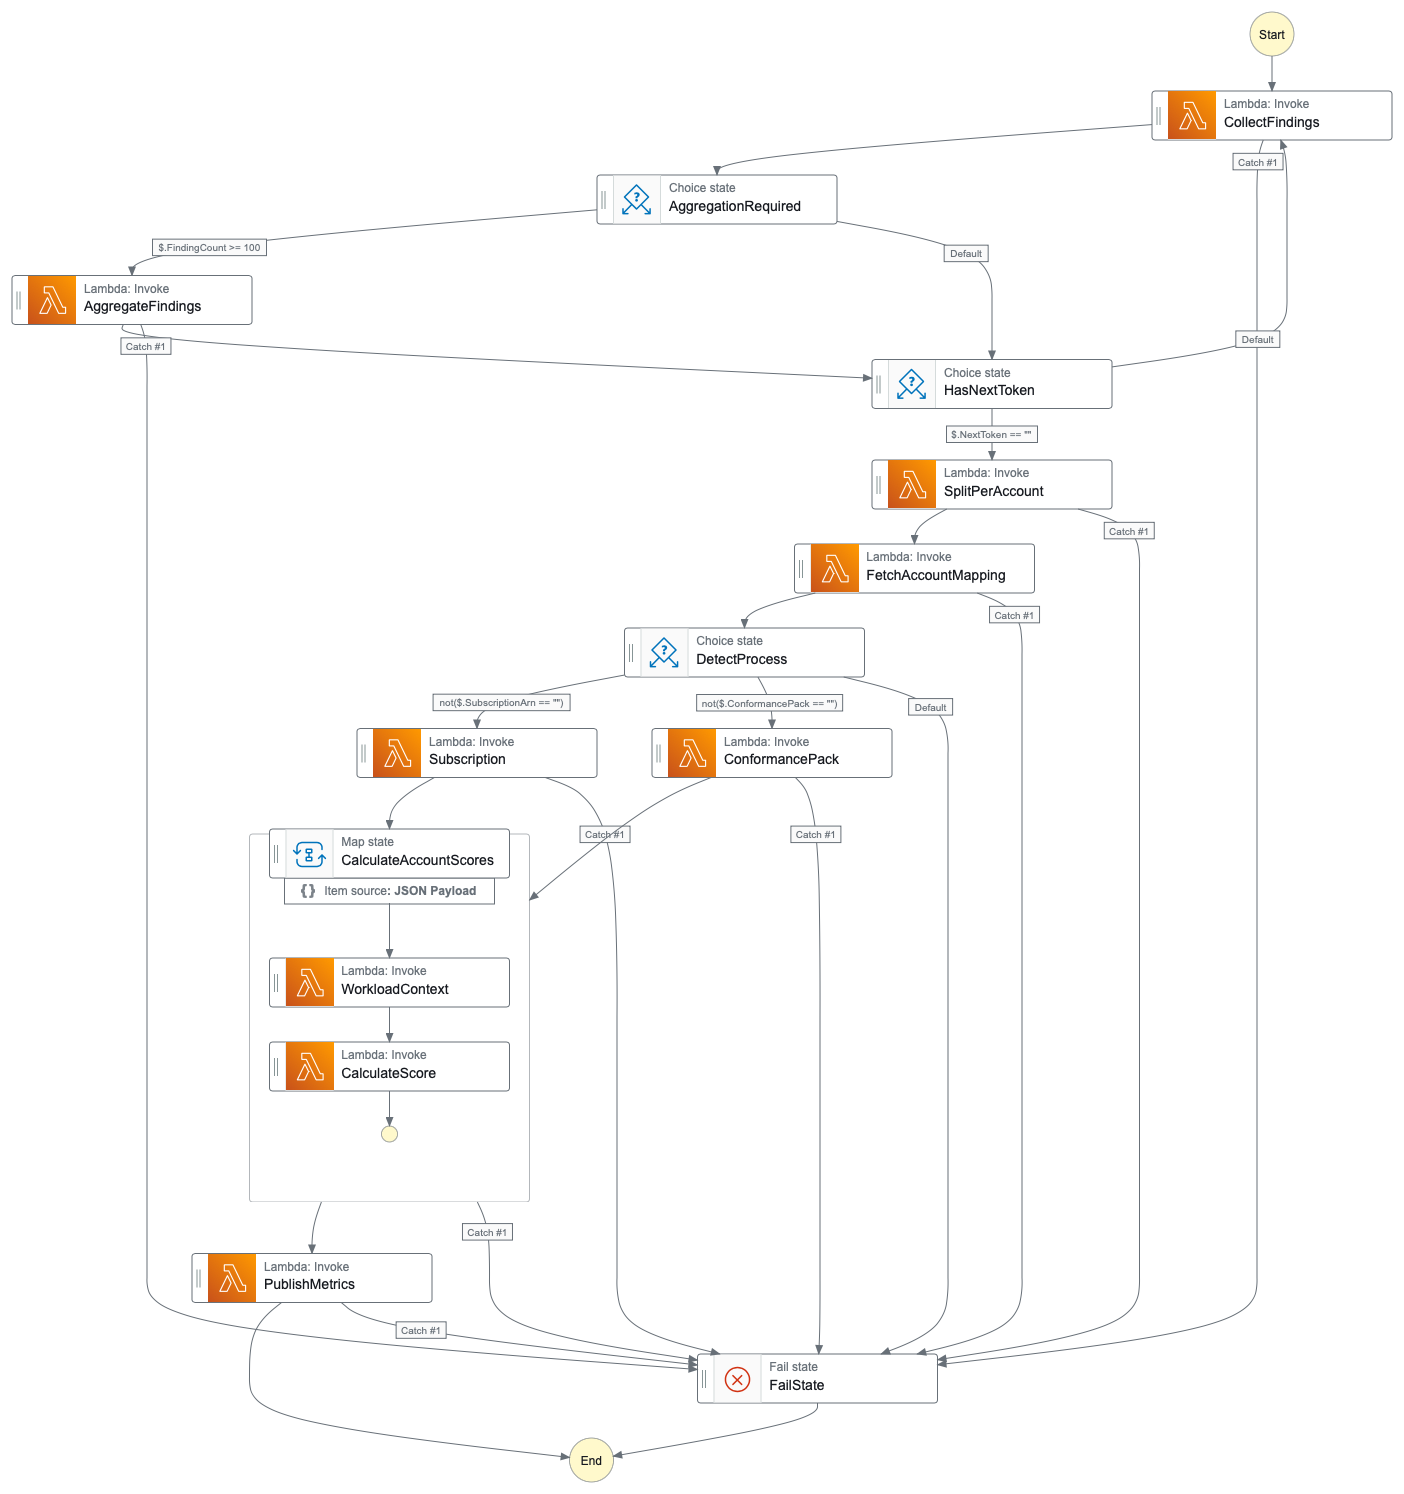
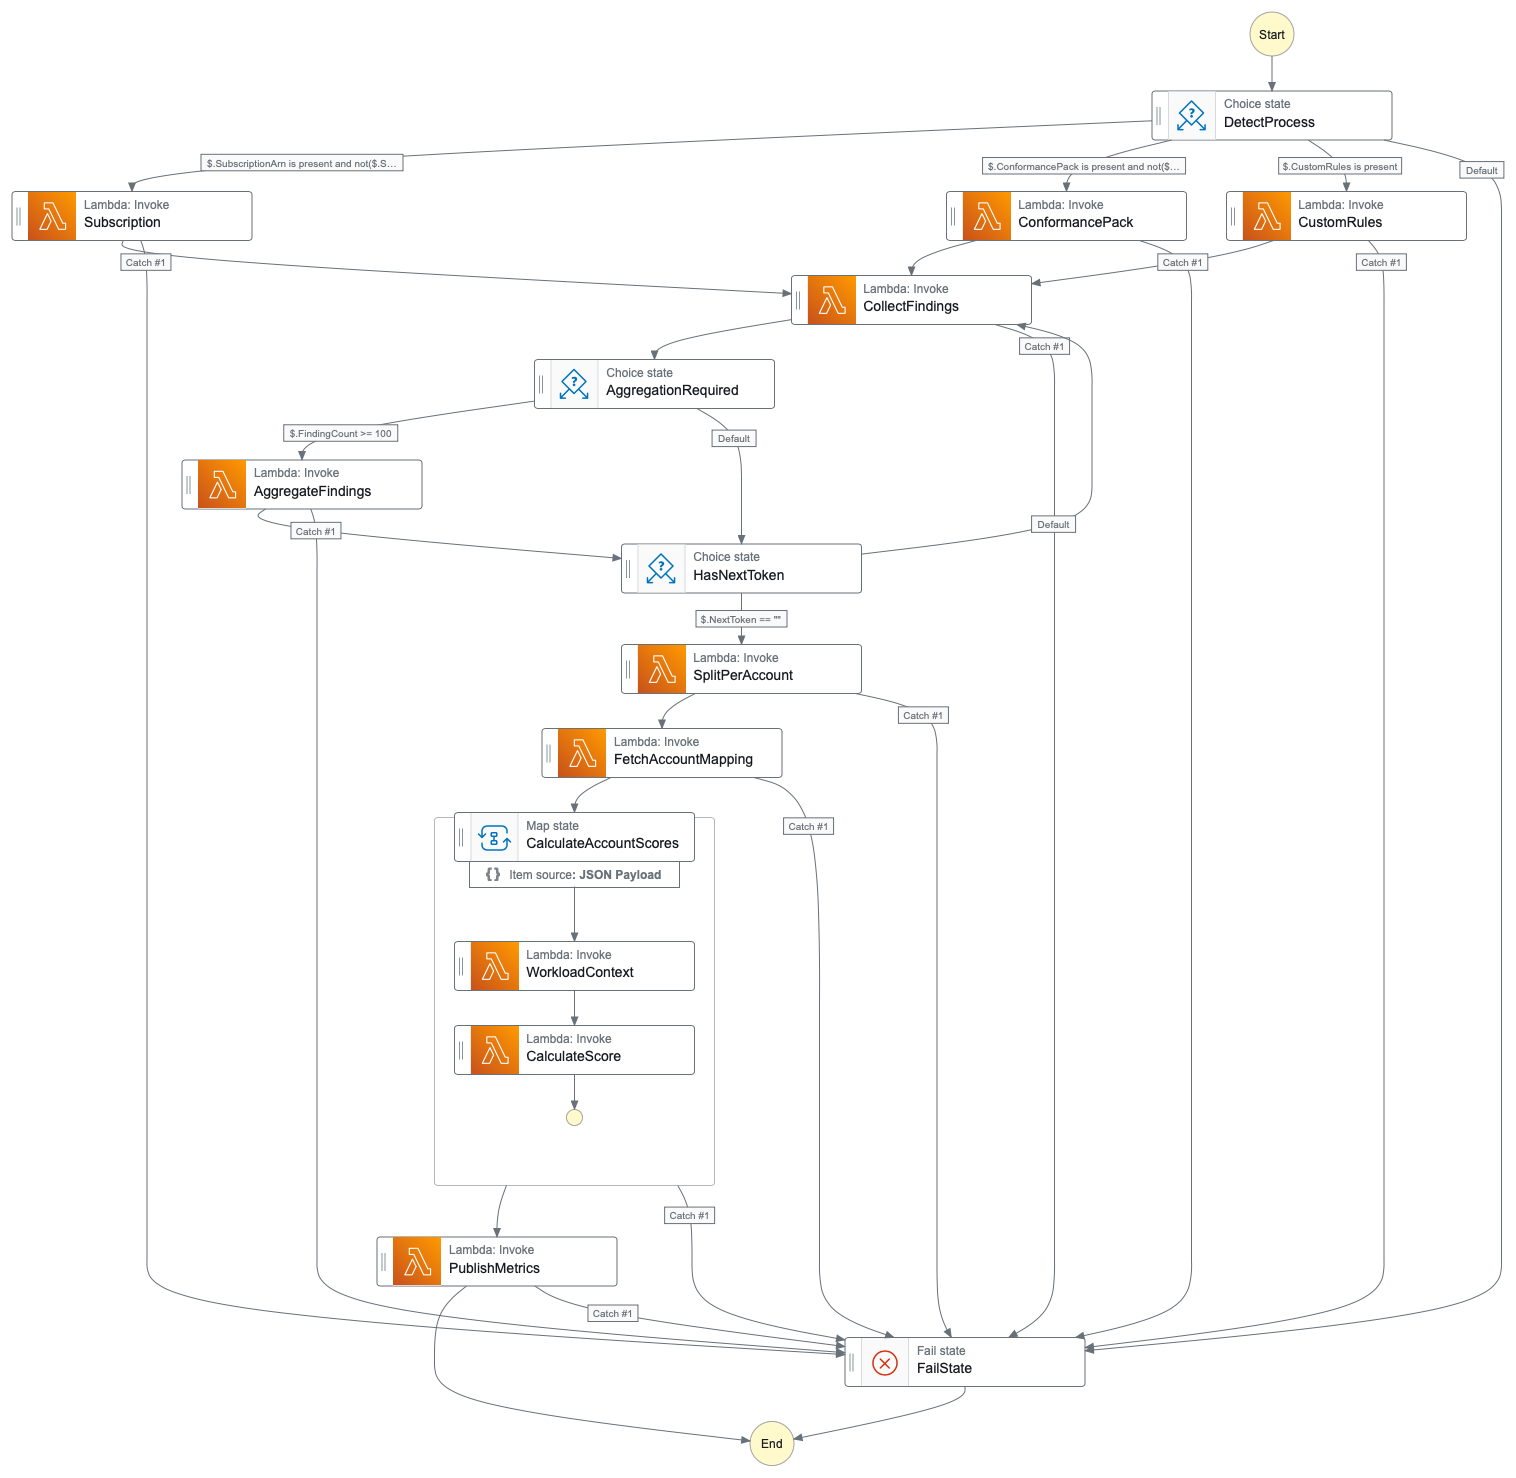
feat: support custom rules
By allowing a list of custom rules to be fed as input. We can support custom rule sets that are not part of an conformance pack.

diff --git a/lambdas/custom-rules/lambda.go b/lambdas/custom-rules/lambda.go
@@ -1,0 +1,74 @@
+package main
+
+import (
+	"bytes"
+	"context"
+	"encoding/json"
+	"fmt"
+	"github.com/aws/aws-sdk-go-v2/aws"
+	"github.com/aws/aws-sdk-go-v2/service/s3"
+	"github.com/gofrs/uuid"
+	"log"
+	"path/filepath"
+	"time"
+)
+
+type Lambda struct {
+	ctx      context.Context
+	s3Client *s3.Client
+}
+
+func New(cfg aws.Config) *Lambda {
+	m := new(Lambda)
+	m.s3Client = s3.NewFromConfig(cfg)
+	return m
+}
+
+func (x *Lambda) Handler(ctx context.Context, request Request) (Response, error) {
+	x.ctx = ctx
+	response := Response{
+		Report:   request.Report,
+		Bucket:   request.Bucket,
+		Controls: x.resolveBucketKey("controls", request.Report),
+		GroupBy:  "Title",
+		Filter:   request.Filter,
+	}
+
+	controlsData, err := json.Marshal(request.CustomRules)
+
+	if err != nil {
+		return response, err
+	}
+
+	err = x.uploadFile(request.Bucket, response.Controls, controlsData)
+	return response, err
+}
+
+func (x *Lambda) resolveBucketKey(prefix string, report string) string {
+	t := time.Now()
+	id, _ := uuid.NewV6()
+
+	return filepath.Join(
+		report,
+		prefix,
+		fmt.Sprintf("%d", t.Year()),
+		fmt.Sprintf("%02d", int(t.Month())),
+		fmt.Sprintf("%02d", t.Day()),
+		fmt.Sprintf("%s.json", id.String()),
+	)
+}
+
+func (x *Lambda) uploadFile(bucket string, key string, data []byte) error {
+	log.Printf("Upload file to s3://%s/%s", bucket, key)
+
+	_, err := x.s3Client.PutObject(x.ctx, &s3.PutObjectInput{
+		Bucket: aws.String(bucket),
+		Key:    aws.String(key),
+		Body:   bytes.NewReader(data),
+	})
+
+	viewData := string(data)
+	log.Printf(viewData)
+
+	return err
+}

diff --git a/lambdas/custom-rules/main_test.go b/lambdas/custom-rules/main_test.go
@@ -1,0 +1,52 @@
+package main
+
+import (
+	"bytes"
+	"context"
+	"encoding/json"
+	"github.com/aws/aws-sdk-go-v2/aws"
+	"github.com/aws/aws-sdk-go-v2/service/s3"
+	"github.com/awsdocs/aws-doc-sdk-examples/gov2/testtools"
+	"github.com/stretchr/testify/assert"
+	"os"
+	"strings"
+	"testing"
+)
+
+func readEvent(path string) Request {
+	file, _ := os.ReadFile(path)
+
+	var event Request
+	_ = json.Unmarshal(file, &event)
+	return event
+}
+
+func toReader(findings []string) *bytes.Reader {
+	data, _ := json.Marshal(findings)
+	return bytes.NewReader(data)
+}
+
+func TestHandler(t *testing.T) {
+	ctx := context.Background()
+
+	t.Run("Invoke", func(t *testing.T) {
+		stubber := testtools.NewStubber()
+		lambda := New(*stubber.SdkConfig)
+
+		stubber.Add(testtools.Stub{
+			OperationName: "PutObject",
+			Input: &s3.PutObjectInput{Bucket: aws.String("my-sample-bucket"), Body: toReader([]string{
+				"lz-rule-1", "lz-rule-2", "lz-rule-3", "lz-rule-4",
+			})},
+			Output:       &s3.PutObjectOutput{},
+			IgnoreFields: []string{"Key"},
+		})
+
+		event := readEvent("../../events/custom-rules.json")
+		response, err := lambda.Handler(ctx, event)
+		testtools.ExitTest(stubber, t)
+		assert.NoError(t, err)
+		assert.Equal(t, "Title", response.GroupBy)
+		assert.Equal(t, true, strings.HasPrefix(response.Controls, "my-security-framework/controls/"))
+	})
+}

diff --git a/lambdas/custom-rules/models.go b/lambdas/custom-rules/models.go
@@ -1,0 +1,18 @@
+package main
+
+import "github.com/aws/aws-sdk-go-v2/service/securityhub/types"
+
+type Request struct {
+	Report      string                          `json:"Report"`
+	Bucket      string                          `json:"Bucket"`
+	CustomRules []string                        `json:"CustomRules"`
+	Filter      types.AwsSecurityFindingFilters `json:"Filter"`
+}
+
+type Response struct {
+	Report   string                          `json:"Report"`
+	Bucket   string                          `json:"Bucket"`
+	Controls string                          `json:"Controls"`
+	GroupBy  string                          `json:"GroupBy"`
+	Filter   types.AwsSecurityFindingFilters `json:"Filter"`
+}

diff --git a/lambdas/calculate-score/main.go b/lambdas/calculate-score/main.go
@@ -1,5 +1,3 @@
-//go:build !coverage
-
 package main
 
 import (

diff --git a/lambdas/collect-findings/main.go b/lambdas/collect-findings/main.go
@@ -1,5 +1,3 @@
-//go:build !coverage
-
 package main
 
 import (

diff --git a/lambdas/conformance-pack/main.go b/lambdas/conformance-pack/main.go
@@ -1,5 +1,3 @@
-//go:build !coverage
-
 package main
 
 import (

diff --git a/lambdas/fetch-account-mapping/main.go b/lambdas/fetch-account-mapping/main.go
@@ -1,5 +1,3 @@
-//go:build !coverage
-
 package main
 
 import (

diff --git a/lambdas/publish-metrics/main.go b/lambdas/publish-metrics/main.go
@@ -1,5 +1,3 @@
-//go:build !coverage
-
 package main
 
 import (

diff --git a/lambdas/split-per-account/main.go b/lambdas/split-per-account/main.go
@@ -1,5 +1,3 @@
-//go:build !coverage
-
 package main
 
 import (

diff --git a/lambdas/subscription/main.go b/lambdas/subscription/main.go
@@ -1,5 +1,3 @@
-//go:build !coverage
-
 package main
 
 import (

diff --git a/lambdas/workload-context/main.go b/lambdas/workload-context/main.go
@@ -1,5 +1,3 @@
-//go:build !coverage
-
 package main
 
 import (
